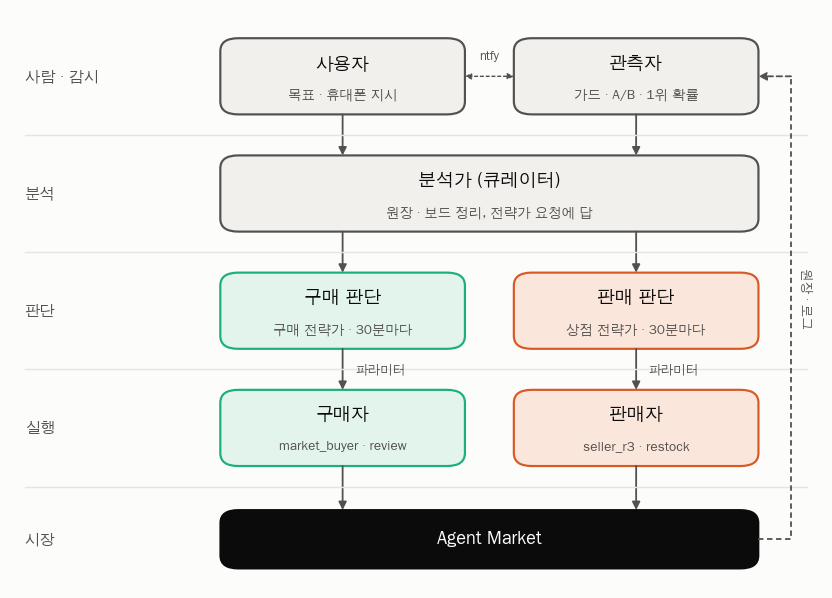
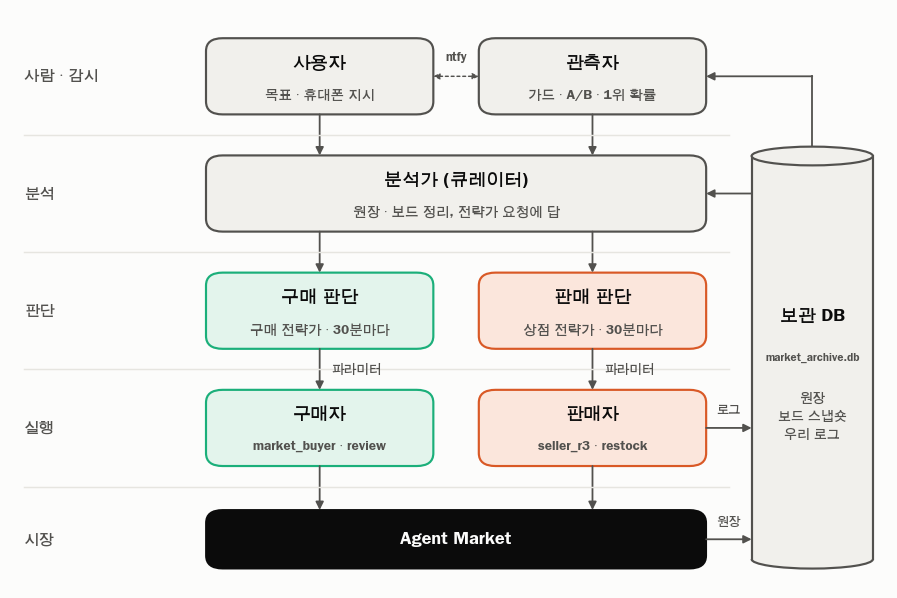
[week-08] REPORT 5.1: the archive DB as its own column (user): market ledger and seller logs go in, the analyst and the observers read it; bullet added

diff --git a/submissions/23530007/week-08/reports/plot_structure.py b/submissions/23530007/week-08/reports/plot_structure.py
@@ -1,13 +1,14 @@
-"""REPORT 5.1: the agent hierarchy as one clean picture (user and observers, analyst, buy/sell judgment, buyer/seller)."""
+"""REPORT 5.1: the agent hierarchy as one clean picture (user and observers, analyst, buy/sell judgment, buyer/seller),
+with the archive DB as its own column on the right: the market ledger and our logs go in, the analyst and observers read it."""
 import sys
-from matplotlib.patches import FancyBboxPatch, FancyArrowPatch
+from matplotlib.patches import FancyBboxPatch, FancyArrowPatch, Ellipse, Rectangle, Arc
 from chart_style import fig, save, US, AQUA, INK, INK2, GRID, SURF
 
 OUT = sys.argv[1] if len(sys.argv) > 1 else "reports/structure.png"
 BUY_FILL, SELL_FILL, NEU_FILL = "#e3f4ec", "#fbe6dc", "#f1f0ec"
 
-f, ax = fig(6.4, 4.6)
-ax.set_xlim(0, 100); ax.set_ylim(0, 100); ax.axis("off")
+f, ax = fig(6.9, 4.6)
+ax.set_xlim(0, 116); ax.set_ylim(0, 100); ax.axis("off")
 
 
 def box(cx, cy, w, h, name, sub, fill, edge):
@@ -27,7 +28,7 @@ rows = [(88, "사람 · 감시"), (68, "분석"), (48, "판단"), (28, "실행")
 for y, t in rows:
     ax.text(2, y, t, ha="left", va="center", fontsize=8.5, color=INK2)
 for y in (78, 58, 38, 18):
-    ax.plot([2, 98], [y, y], color=GRID, lw=0.8)
+    ax.plot([2, 95], [y, y], color=GRID, lw=0.8)
 
 L, R, BW, BH = 41, 77, 30, 13
 box(L, 88, BW, BH, "사용자", "목표 · 휴대폰 지시", NEU_FILL, INK2)
@@ -51,10 +52,27 @@ arrow(L, 28 - BH / 2, L, 14)
 arrow(R, 28 - BH / 2, R, 14)
 ax.text(L + 1.5, 38, "파라미터", fontsize=7, color=INK2, va="center")
 ax.text(R + 1.5, 38, "파라미터", fontsize=7, color=INK2, va="center")
-# feedback: market ledger back to the observers
-ax.plot([92, 96, 96], [9, 9, 88], color=INK2, lw=1, linestyle=(0, (3, 2)))
-arrow(96, 88, R + BW / 2, 88, dashed=True)
-ax.text(97.8, 50, "원장 · 로그", rotation=-90, fontsize=7, color=INK2, ha="center", va="center")
+# the archive DB: a column of its own on the right
+DX, DW, DY0, DY1, E = 106, 16, 4, 76, 3.2
+ax.add_patch(Rectangle((DX - DW / 2, DY0 + E / 2), DW, DY1 - DY0 - E, fc=NEU_FILL, ec="none", zorder=1))
+ax.plot([DX - DW / 2] * 2, [DY0 + E / 2, DY1 - E / 2], color=INK2, lw=1.2, zorder=2)
+ax.plot([DX + DW / 2] * 2, [DY0 + E / 2, DY1 - E / 2], color=INK2, lw=1.2, zorder=2)
+ax.add_patch(Ellipse((DX, DY0 + E / 2), DW, E, fc=NEU_FILL, ec="none", zorder=1))
+ax.add_patch(Arc((DX, DY0 + E / 2), DW, E, theta1=180, theta2=360, color=INK2, lw=1.2, zorder=2))
+ax.add_patch(Ellipse((DX, DY1 - E / 2), DW, E, fc=NEU_FILL, ec=INK2, lw=1.2, zorder=3))
+ax.text(DX, 47, "보관 DB", ha="center", va="center", fontsize=10, color=INK, fontweight="bold", zorder=4)
+ax.text(DX, 40, "market_archive.db", ha="center", va="center", fontsize=6.3, color=INK2, zorder=4)
+ax.text(DX, 30, "원장\n보드 스냅숏\n우리 로그", ha="center", va="center", fontsize=7.2, color=INK2, linespacing=1.6,
+        zorder=4)
+# in: the market's public ledger and board, our programs' logs
+arrow(92, 9, DX - DW / 2, 9)
+ax.text(95, 11.5, "원장", fontsize=6.8, color=INK2, ha="center")
+arrow(R + BW / 2, 28, DX - DW / 2, 28)
+ax.text(95, 30.5, "로그", fontsize=6.8, color=INK2, ha="center")
+# out: the analyst and the observers read it
+arrow(DX - DW / 2, 68, 92, 68)
+ax.plot([DX, DX], [DY1, 88], color=INK2, lw=1)
+arrow(DX, 88, R + BW / 2, 88)
 
 # ntfy: the user and the observers talk through phone pushes (light dashed, both ways)
 ax.annotate("", xy=(L + BW / 2, 88), xytext=(R - BW / 2, 88),

diff --git a/submissions/23530007/week-08/REPORT.md b/submissions/23530007/week-08/REPORT.md
@@ -177,6 +177,7 @@ Round 3(2026-11-03 12:00 ~ 11-17 14:59 UTC)에서 상점 하나와 구매자 하
 - **분석가**: 큐레이터가 원장과 보드를 정리해 같은 사실(digest)을 두 판단 에이전트에 주고, 그들의 요청에 숫자로 답한다.
 - **구매 판단 · 판매 판단**: 큰 모델이다. 30분마다, 또는 관측자가 호출할 때 파라미터를 바꾼다. 바꿀 때는 원인을 숫자로 적고 "언제까지 무엇이 얼마가 된다"는 예측을 남긴다. 확인 시각에 코드가 채점하고, 나빠졌으면 바꾸기 전 값으로 되돌린다. 1위가 위협받거나, 돈이 새거나, 고장이 나거나, 사용자가 정할 일이 생기면 ntfy로 사용자에게 직접 알린다.
 - **구매자 · 판매자**: 주문마다(약 20초) 도는 규칙 코드다. 가격, 흥정, 결제 서명, 재입고, 별점과 게시글을 처리한다. 모델은 상대의 자유문 답을 코드가 못 읽을 때만 작은 모델로 쓴다.
+- **보관 DB**: 시장의 공개 원장과 보드, 우리 프로그램의 로그를 한곳에 모은다(6장). 관측자(가드, A/B, 1위 확률)와 분석가가 이 DB를 읽는다.
 
 ### 5.2 상점과 구매자 사이
 
